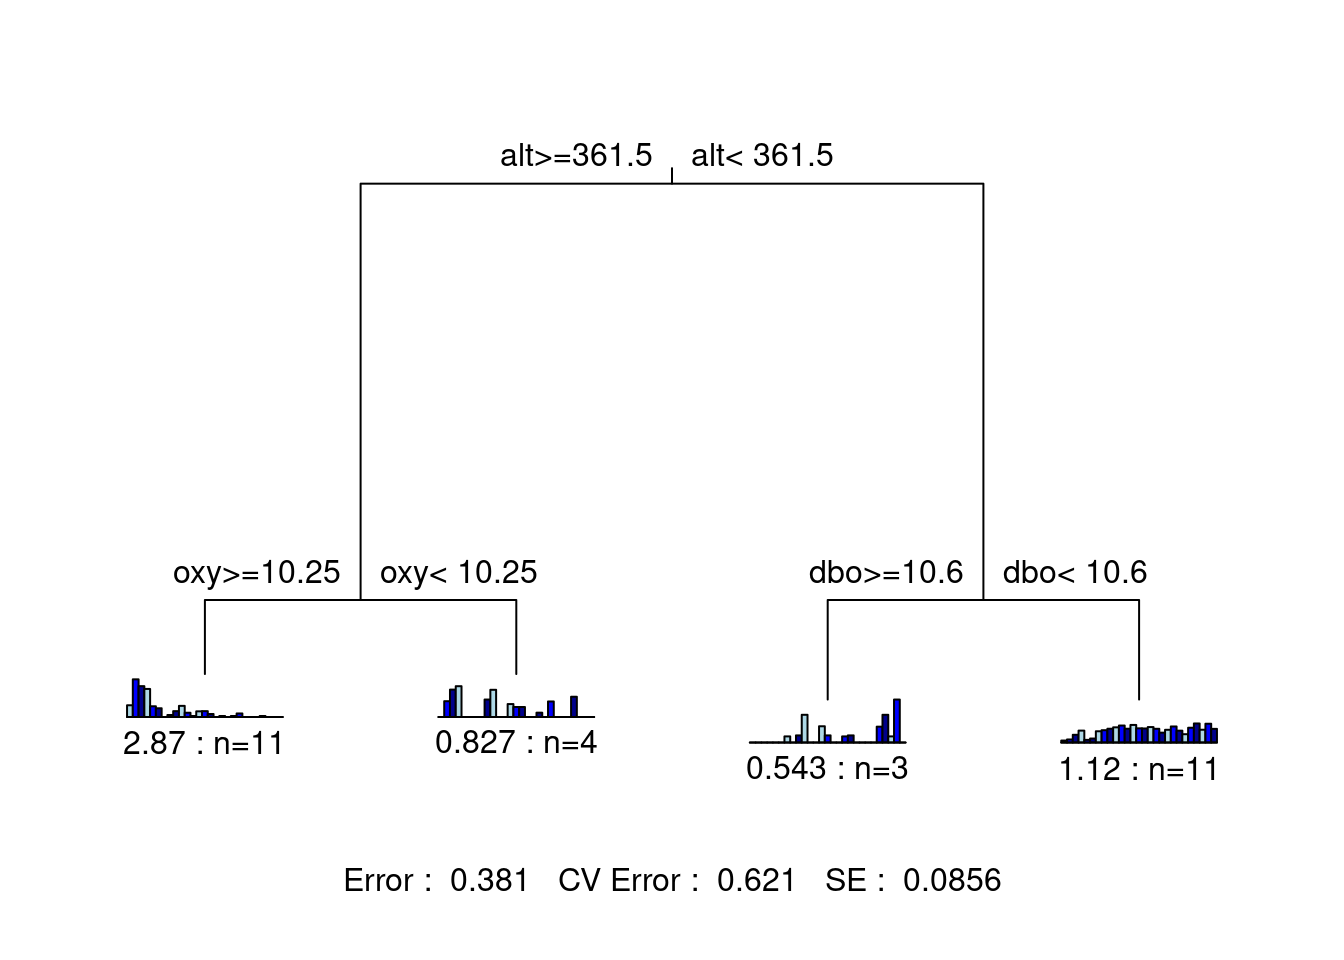
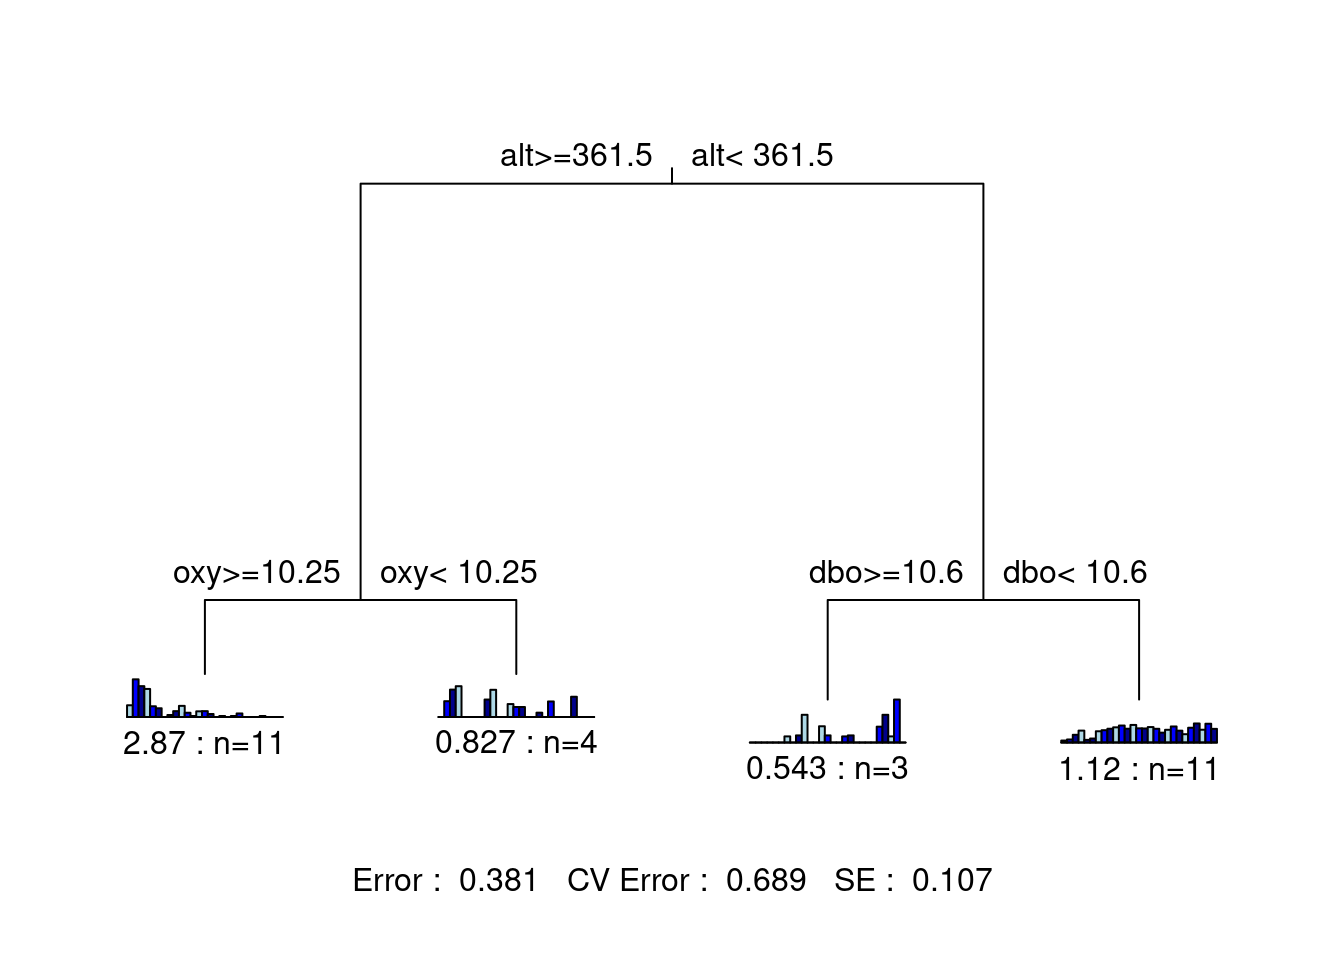
Deploying to gh-pages from @ QCBSRworkshops/workshop10@a7d315f296a9d0f3acebb1d79a90b6bf841f9082 🚀

Changed region(s): [[0.25, 0.9062, 0.75, 0.9375]]

diff --git a/book-fr/arbre-de-régression-multivarié.html b/book-fr/arbre-de-régression-multivarié.html
@@ -6,7 +6,7 @@
   <meta http-equiv="X-UA-Compatible" content="IE=edge" />
   <title>Chapitre 9 Arbre de régression multivarié | Atelier 10: Analyses multivariées avancées en R</title>
   <meta name="description" content="Analyses multivariées avancées en R" />
-  <meta name="generator" content="bookdown 0.31 and GitBook 2.6.7" />
+  <meta name="generator" content="bookdown 0.33 and GitBook 2.6.7" />
 
   <meta property="og:title" content="Chapitre 9 Arbre de régression multivarié | Atelier 10: Analyses multivariées avancées en R" />
   <meta property="og:type" content="book" />
@@ -371,8 +371,8 @@ obtiendrait donc un arbre explicatif plutôt que prédictif.</p>
 <pre><code>## X-Val rep : 1  2  3  4  5  6  7  8  9  10  11  12  13  14  15  16  17  18  19  20  21  22  23  24  25  26  27  28  29  30  31  32  33  34  35  36  37  38  39  40  41  42  43  44  45  46  47  48  49  50  51  52  53  54  55  56  57  58  59  60  61  62  63  64  65  66  67  68  69  70  71  72  73  74  75  76  77  78  79  80  81  82  83  84  85  86  87  88  89  90  91  92  93  94  95  96  97  98  99  100
 ## Minimum tree sizes
 ## tabmins
-##  2  4  5  6  7  8  9 10 
-## 11  2  1 12 11 28  4 31</code></pre>
+##  2  4  6  7  8  9 10 
+##  7  1 16 18 21  4 33</code></pre>
 <p><img src="book-fr_files/figure-html/unnamed-chunk-74-1.png" width="672" style="display: block; margin: auto;" /></p>
 <p>À ce stade, vous devrez sélectionner l’arbre avec un nombre <em>approprié</em> de groupes, en fonction de l’objectif de votre étude. En d’autres mots, vous devez élaguer l’arbre en choisissant l’arbre le plus approprié. Un arbre entièrement résolu n’est pas le résultat souhaitable ; au contraire, on s’intéresse généralement à un arbre comprenant uniquement des partitions/groupes informatifs. Dans ce cas, il est possible d’avoir une idée <em>a priori</em> du nombre de groupes potentiels à retenir. Vous pouvez faire ce choix de manière interactive, avec l’argument <code>xv = "pick"</code>.</p>
 <p>Le graphique montre l’erreur relative (RE, en vert) et l’erreur
@@ -404,8 +404,8 @@ correspondant à la taille de l’arbre choisie. En résumé:</p>
 <pre><code>## X-Val rep : 1  2  3  4  5  6  7  8  9  10  11  12  13  14  15  16  17  18  19  20  21  22  23  24  25  26  27  28  29  30  31  32  33  34  35  36  37  38  39  40  41  42  43  44  45  46  47  48  49  50  51  52  53  54  55  56  57  58  59  60  61  62  63  64  65  66  67  68  69  70  71  72  73  74  75  76  77  78  79  80  81  82  83  84  85  86  87  88  89  90  91  92  93  94  95  96  97  98  99  100
 ## Minimum tree sizes
 ## tabmins
-##  2  4  5  6  7  8  9 10 
-##  9  1  2 10  9 26  5 38</code></pre>
+##  2  4  6  7  8  9 10 
+##  4  3  9 16 31  2 35</code></pre>
 <p><img src="book-fr_files/figure-html/unnamed-chunk-75-1.png" width="672" style="display: block; margin: auto;" /></p>
 <p>Des statistiques sont affichées au bas de l’arbre: l’erreur résiduelle,
 l’erreur de validation croisée et l’erreur type. Cet arbre n’est
@@ -440,9 +440,9 @@ nombre de sites et l’erreur relative. De cette figure, on peut rapporter les s
 <p>Pour savoir combien de variance est expliquée par chaque nœud de l’arbre, nous devons consulter le paramètre de complexité (CP). Le CP à <code>nsplit = 0</code> est le <span class="math inline">\(R^2\)</span> de l’arbre complet.</p>
 <div class="sourceCode" id="cb102"><pre class="sourceCode r"><code class="sourceCode r"><span id="cb102-1"><a href="arbre-de-régression-multivarié.html#cb102-1" aria-hidden="true" tabindex="-1"></a><span class="co"># Vérifier le paramètre de compléxité</span></span>
 <span id="cb102-2"><a href="arbre-de-régression-multivarié.html#cb102-2" aria-hidden="true" tabindex="-1"></a>doubs.mrt<span class="sc">$</span>cptable</span></code></pre></div>
-<pre><code>##          CP nsplit rel error   xerror       xstd
-## 1 0.4369561      0 1.0000000 1.073973 0.07490428
-## 2 0.1044982      1 0.5630439 0.676255 0.09508638</code></pre>
+<pre><code>##          CP nsplit rel error    xerror       xstd
+## 1 0.4369561      0 1.0000000 1.0730073 0.07496159
+## 2 0.1044982      1 0.5630439 0.6747317 0.09484281</code></pre>
 <p>Le résumé présente ensuite, pour chaque nœud, les meilleures valeurs de seuil pour le groupement des données.</p>
 <div class="sourceCode" id="cb104"><pre class="sourceCode r"><code class="sourceCode r"><span id="cb104-1"><a href="arbre-de-régression-multivarié.html#cb104-1" aria-hidden="true" tabindex="-1"></a><span class="fu">summary</span>(doubs.mrt)</span></code></pre></div>
 <pre><code>## Call:
@@ -451,9 +451,9 @@ nombre de sites et l’erreur relative. De cette figure, on peut rapporter les s
 ##     legend = FALSE, cp = 0)
 ##   n= 29 
 ## 
-##          CP nsplit rel error   xerror       xstd
-## 1 0.4369561      0 1.0000000 1.073973 0.07490428
-## 2 0.1044982      1 0.5630439 0.676255 0.09508638
+##          CP nsplit rel error    xerror       xstd
+## 1 0.4369561      0 1.0000000 1.0730073 0.07496159
+## 2 0.1044982      1 0.5630439 0.6747317 0.09484281
 ## 
 ## Node number 1: 29 observations,    complexity param=0.4369561
 ##   Means=0.07299,0.2472,0.2581,0.2721,0.07133,0.06813,0.06897,0.07664,0.1488,0.2331,0.113,0.07879,0.1724,0.1366,0.1103,0.08216,0.08751,0.07113,0.07312,0.1345,0.06307,0.04423,0.1015,0.1862,0.07713,0.1623,0.07283, Summed MSE=0.4851823 
@@ -528,22 +528,22 @@ nombre de sites et l’erreur relative. De cette figure, on peut rapporter les s
 <span id="cb113-5"><a href="arbre-de-régression-multivarié.html#cb113-5" aria-hidden="true" tabindex="-1"></a>mite.mrt.indval<span class="sc">$</span>maxcls[<span class="fu">which</span>(mite.mrt.indval<span class="sc">$</span>pval <span class="sc">&lt;=</span> <span class="fl">0.05</span>)]</span></code></pre></div>
 <pre><code>##     PHTH     RARD     SSTR  Protopl     MEGR     MPRO     TVIE     HMIN 
 ##        2        2        2        2        2        2        1        2 
-##    HMIN2     NPRA     TVEL     ONOV     SUCT     LCIL Oribatl1 Ceratoz1 
-##        2        2        2        2        2        1        2        1 
-## Galumna1 Stgncrs2 Trhypch1     NCOR     SLAT     FSET Lepidzts Miniglmn 
-##        2        2        1        1        2        2        2        2 
-##     LRUG Ceratoz3 Trimalc2 
-##        1        1        1</code></pre>
+##    HMIN2     TVEL     ONOV     SUCT     LCIL Oribatl1 Ceratoz1 Galumna1 
+##        2        2        2        2        1        2        1        2 
+## Stgncrs2 Trhypch1     NCOR     SLAT     FSET Lepidzts Miniglmn     LRUG 
+##        2        1        1        2        2        2        2        1 
+## Ceratoz3 Trimalc2 
+##        1        1</code></pre>
 <div class="sourceCode" id="cb115"><pre class="sourceCode r"><code class="sourceCode r"><span id="cb115-1"><a href="arbre-de-régression-multivarié.html#cb115-1" aria-hidden="true" tabindex="-1"></a><span class="co"># Extraire leur valeur indval</span></span>
 <span id="cb115-2"><a href="arbre-de-régression-multivarié.html#cb115-2" aria-hidden="true" tabindex="-1"></a>mite.mrt.indval<span class="sc">$</span>indcls[<span class="fu">which</span>(mite.mrt.indval<span class="sc">$</span>pval <span class="sc">&lt;=</span> <span class="fl">0.05</span>)]</span></code></pre></div>
 <pre><code>##      PHTH      RARD      SSTR   Protopl      MEGR      MPRO      TVIE      HMIN 
 ## 0.5317919 0.5584677 0.2256592 0.2517509 0.5769554 0.1567789 0.3793303 0.6421174 
-##     HMIN2      NPRA      TVEL      ONOV      SUCT      LCIL  Oribatl1  Ceratoz1 
-## 0.6193076 0.4620892 0.7412296 0.6312483 0.6087557 0.7152107 0.5978167 0.4744997 
-##  Galumna1  Stgncrs2  Trhypch1      NCOR      SLAT      FSET  Lepidzts  Miniglmn 
-## 0.5974145 0.3897917 0.4545803 0.4539642 0.2249109 0.6361272 0.2108305 0.1880194 
-##      LRUG  Ceratoz3  Trimalc2 
-## 0.6683300 0.3962540 0.4358974</code></pre>
+##     HMIN2      TVEL      ONOV      SUCT      LCIL  Oribatl1  Ceratoz1  Galumna1 
+## 0.6193076 0.7412296 0.6312483 0.6087557 0.7152107 0.5978167 0.4744997 0.5974145 
+##  Stgncrs2  Trhypch1      NCOR      SLAT      FSET  Lepidzts  Miniglmn      LRUG 
+## 0.3897917 0.4545803 0.4539642 0.2249109 0.6361272 0.2108305 0.1880194 0.6683300 
+##  Ceratoz3  Trimalc2 
+## 0.3962540 0.4358974</code></pre>
 
 </div>
 </div>

diff --git a/book-fr/préparez-vous-pour-cet-atelier.html b/book-fr/préparez-vous-pour-cet-atelier.html
@@ -6,7 +6,7 @@
   <meta http-equiv="X-UA-Compatible" content="IE=edge" />
   <title>Chapitre 2 Préparez-vous pour cet atelier | Atelier 10: Analyses multivariées avancées en R</title>
   <meta name="description" content="Analyses multivariées avancées en R" />
-  <meta name="generator" content="bookdown 0.31 and GitBook 2.6.7" />
+  <meta name="generator" content="bookdown 0.33 and GitBook 2.6.7" />
 
   <meta property="og:title" content="Chapitre 2 Préparez-vous pour cet atelier | Atelier 10: Analyses multivariées avancées en R" />
   <meta property="og:type" content="book" />
@@ -325,8 +325,8 @@ analyses multivariées)</li>
 <p>*Le paquet <code>mvpart</code> n’est plus hébergé sur CRAN, mais est toujours disponible dans les archives. Pour installer <code>mvpart</code>, vous pouvez également télécharger la version .tar.gz depuis <a href="https://cran.r-project.org/src/contrib/Archive/mvpart/mvpart_1.6-2.tar.gz">ici</a> et aller dans l’onglet “Packages” sur le panneau inférieur droit de R Studio, et cliquer sur “Installer les paquets”. Choisissez d’installer à partir d’un fichier d’archives de paquets, et sélectionnez le fichier .tar.gz pour <code>mvpart</code>.</p>
 </blockquote>
 <div class="sourceCode" id="cb2"><pre class="sourceCode r"><code class="sourceCode r"><span id="cb2-1"><a href="préparez-vous-pour-cet-atelier.html#cb2-1" aria-hidden="true" tabindex="-1"></a><span class="co"># Chargez les pacquets requis</span></span>
-<span id="cb2-2"><a href="préparez-vous-pour-cet-atelier.html#cb2-2" aria-hidden="true" tabindex="-1"></a><span class="fu">library</span>(vegan)</span>
-<span id="cb2-3"><a href="préparez-vous-pour-cet-atelier.html#cb2-3" aria-hidden="true" tabindex="-1"></a><span class="fu">library</span>(labdsv)</span>
+<span id="cb2-2"><a href="préparez-vous-pour-cet-atelier.html#cb2-2" aria-hidden="true" tabindex="-1"></a><span class="fu">library</span>(labdsv)</span>
+<span id="cb2-3"><a href="préparez-vous-pour-cet-atelier.html#cb2-3" aria-hidden="true" tabindex="-1"></a><span class="fu">library</span>(vegan)</span>
 <span id="cb2-4"><a href="préparez-vous-pour-cet-atelier.html#cb2-4" aria-hidden="true" tabindex="-1"></a><span class="fu">library</span>(MASS)</span>
 <span id="cb2-5"><a href="préparez-vous-pour-cet-atelier.html#cb2-5" aria-hidden="true" tabindex="-1"></a><span class="fu">library</span>(mvpart)</span>
 <span id="cb2-6"><a href="préparez-vous-pour-cet-atelier.html#cb2-6" aria-hidden="true" tabindex="-1"></a><span class="fu">library</span>(ggplot2)</span></code></pre></div>

diff --git a/book-fr/rda-partielle.html b/book-fr/rda-partielle.html
@@ -6,7 +6,7 @@
   <meta http-equiv="X-UA-Compatible" content="IE=edge" />
   <title>Chapitre 7 RDA partielle | Atelier 10: Analyses multivariées avancées en R</title>
   <meta name="description" content="Analyses multivariées avancées en R" />
-  <meta name="generator" content="bookdown 0.31 and GitBook 2.6.7" />
+  <meta name="generator" content="bookdown 0.33 and GitBook 2.6.7" />
 
   <meta property="og:title" content="Chapitre 7 RDA partielle | Atelier 10: Analyses multivariées avancées en R" />
   <meta property="og:type" content="book" />
@@ -441,8 +441,8 @@ Figure 7.1: The basic structure of a redundancy analysis (RDA).
 ## Model: rda(formula = mite.spe.hel ~ Shrub + Topo + Condition(SubsDens + WatrCont + Substrate), data = mite.env)
 ##          Df Variance      F Pr(&gt;F)    
 ## RDA1      1 0.027236 8.4618  0.001 ***
-## RDA2      1 0.008254 2.5643  0.018 *  
-## RDA3      1 0.003193 0.9919  0.454    
+## RDA2      1 0.008254 2.5643  0.025 *  
+## RDA3      1 0.003193 0.9919  0.442    
 ## Residual 58 0.186688                  
 ## ---
 ## Signif. codes:  0 &#39;***&#39; 0.001 &#39;**&#39; 0.01 &#39;*&#39; 0.05 &#39;.&#39; 0.1 &#39; &#39; 1</code></pre>

diff --git a/book-fr/index.html b/book-fr/index.html
@@ -6,7 +6,7 @@
   <meta http-equiv="X-UA-Compatible" content="IE=edge" />
   <title>Atelier 10: Analyses multivariées avancées en R</title>
   <meta name="description" content="Analyses multivariées avancées en R" />
-  <meta name="generator" content="bookdown 0.31 and GitBook 2.6.7" />
+  <meta name="generator" content="bookdown 0.33 and GitBook 2.6.7" />
 
   <meta property="og:title" content="Atelier 10: Analyses multivariées avancées en R" />
   <meta property="og:type" content="book" />
@@ -291,7 +291,7 @@ div.csl-indent {
 <h1 class="title">Atelier 10: Analyses multivariées avancées en <code>R</code></h1>
 <h2 class="subtitle"><em>Série d’ateliers R du CSBQ</em></h2>
 <p class="author"><em>Développé et entretenu par les contributeurs et les contributrices de la Série d’ateliers R du CSBQ<a href="#fn1" class="footnote-ref" id="fnref1"><sup>1</sup></a>.</em></p>
-<p class="date"><em>2023-01-13 17:10:17</em></p>
+<p class="date"><em>2023-04-25 18:04:11</em></p>
 </div>
 <div id="préface" class="section level1 unnumbered hasAnchor">
 <h1>Préface<a href="index.html#préface" class="anchor-section" aria-label="Anchor link to header"></a></h1>

diff --git a/book-fr/analyse-canonique-de-redondances.html b/book-fr/analyse-canonique-de-redondances.html
@@ -6,7 +6,7 @@
   <meta http-equiv="X-UA-Compatible" content="IE=edge" />
   <title>Chapitre 6 Analyse canonique de redondances | Atelier 10: Analyses multivariées avancées en R</title>
   <meta name="description" content="Analyses multivariées avancées en R" />
-  <meta name="generator" content="bookdown 0.31 and GitBook 2.6.7" />
+  <meta name="generator" content="bookdown 0.33 and GitBook 2.6.7" />
 
   <meta property="og:title" content="Chapitre 6 Analyse canonique de redondances | Atelier 10: Analyses multivariées avancées en R" />
   <meta property="og:type" content="book" />
@@ -428,7 +428,7 @@ séquentielle.</li>
 ##          Df Variance       F Pr(&gt;F)    
 ## RDA1      1 0.218022 26.4181  0.001 ***
 ## RDA2      1 0.050879  6.1651  0.001 ***
-## RDA3      1 0.027291  3.3069  0.003 ** 
+## RDA3      1 0.027291  3.3069  0.001 ***
 ## Residual 25 0.206319                   
 ...</code></pre>
 <p>Notre modèle complet est statistiquement significatif (p = 0.001), et chaque variable incluse dans ce modèle est également significative (p = 0.001). Chaque axe canonique résultant du RDA est également statistiquement significatif (p = 0.001).</p>

diff --git a/book-fr/que-sont-les-ordinations-contraintes.html b/book-fr/que-sont-les-ordinations-contraintes.html
@@ -6,7 +6,7 @@
   <meta http-equiv="X-UA-Compatible" content="IE=edge" />
   <title>Chapitre 5 Que sont les ordinations “contraintes” ? | Atelier 10: Analyses multivariées avancées en R</title>
   <meta name="description" content="Analyses multivariées avancées en R" />
-  <meta name="generator" content="bookdown 0.31 and GitBook 2.6.7" />
+  <meta name="generator" content="bookdown 0.33 and GitBook 2.6.7" />
 
   <meta property="og:title" content="Chapitre 5 Que sont les ordinations “contraintes” ? | Atelier 10: Analyses multivariées avancées en R" />
   <meta property="og:type" content="book" />

diff --git a/book-fr/why-advanced-multivariate-methods.html b/book-fr/why-advanced-multivariate-methods.html
@@ -6,7 +6,7 @@
   <meta http-equiv="X-UA-Compatible" content="IE=edge" />
   <title>Chapitre 3 Why “advanced multivariate methods”? | Atelier 10: Analyses multivariées avancées en R</title>
   <meta name="description" content="Analyses multivariées avancées en R" />
-  <meta name="generator" content="bookdown 0.31 and GitBook 2.6.7" />
+  <meta name="generator" content="bookdown 0.33 and GitBook 2.6.7" />
 
   <meta property="og:title" content="Chapitre 3 Why “advanced multivariate methods”? | Atelier 10: Analyses multivariées avancées en R" />
   <meta property="og:type" content="book" />

diff --git a/book-fr/analyse-discriminante-linéaire.html b/book-fr/analyse-discriminante-linéaire.html
@@ -6,7 +6,7 @@
   <meta http-equiv="X-UA-Compatible" content="IE=edge" />
   <title>Chapitre 10 Analyse discriminante linéaire | Atelier 10: Analyses multivariées avancées en R</title>
   <meta name="description" content="Analyses multivariées avancées en R" />
-  <meta name="generator" content="bookdown 0.31 and GitBook 2.6.7" />
+  <meta name="generator" content="bookdown 0.33 and GitBook 2.6.7" />
 
   <meta property="og:title" content="Chapitre 10 Analyse discriminante linéaire | Atelier 10: Analyses multivariées avancées en R" />
   <meta property="og:type" content="book" />

diff --git a/book-fr/partitionnement-de-la-variation.html b/book-fr/partitionnement-de-la-variation.html
@@ -6,7 +6,7 @@
   <meta http-equiv="X-UA-Compatible" content="IE=edge" />
   <title>Chapitre 8 Partitionnement de la variation | Atelier 10: Analyses multivariées avancées en R</title>
   <meta name="description" content="Analyses multivariées avancées en R" />
-  <meta name="generator" content="bookdown 0.31 and GitBook 2.6.7" />
+  <meta name="generator" content="bookdown 0.33 and GitBook 2.6.7" />
 
   <meta property="og:title" content="Chapitre 8 Partitionnement de la variation | Atelier 10: Analyses multivariées avancées en R" />
   <meta property="og:type" content="book" />

diff --git a/book-fr/objectifs-dapprentissage.html b/book-fr/objectifs-dapprentissage.html
@@ -6,7 +6,7 @@
   <meta http-equiv="X-UA-Compatible" content="IE=edge" />
   <title>Chapitre 1 Objectifs d’apprentissage | Atelier 10: Analyses multivariées avancées en R</title>
   <meta name="description" content="Analyses multivariées avancées en R" />
-  <meta name="generator" content="bookdown 0.31 and GitBook 2.6.7" />
+  <meta name="generator" content="bookdown 0.33 and GitBook 2.6.7" />
 
   <meta property="og:title" content="Chapitre 1 Objectifs d’apprentissage | Atelier 10: Analyses multivariées avancées en R" />
   <meta property="og:type" content="book" />

diff --git a/book-fr/ressources-additionelles.html b/book-fr/ressources-additionelles.html
@@ -6,7 +6,7 @@
   <meta http-equiv="X-UA-Compatible" content="IE=edge" />
   <title>Chapitre 12 Ressources additionelles | Atelier 10: Analyses multivariées avancées en R</title>
   <meta name="description" content="Analyses multivariées avancées en R" />
-  <meta name="generator" content="bookdown 0.31 and GitBook 2.6.7" />
+  <meta name="generator" content="bookdown 0.33 and GitBook 2.6.7" />
 
   <meta property="og:title" content="Chapitre 12 Ressources additionelles | Atelier 10: Analyses multivariées avancées en R" />
   <meta property="og:type" content="book" />

diff --git a/book-fr/exploration.html b/book-fr/exploration.html
@@ -6,7 +6,7 @@
   <meta http-equiv="X-UA-Compatible" content="IE=edge" />
   <title>Chapitre 4 Exploration les données | Atelier 10: Analyses multivariées avancées en R</title>
   <meta name="description" content="Analyses multivariées avancées en R" />
-  <meta name="generator" content="bookdown 0.31 and GitBook 2.6.7" />
+  <meta name="generator" content="bookdown 0.33 and GitBook 2.6.7" />
 
   <meta property="og:title" content="Chapitre 4 Exploration les données | Atelier 10: Analyses multivariées avancées en R" />
   <meta property="og:type" content="book" />
